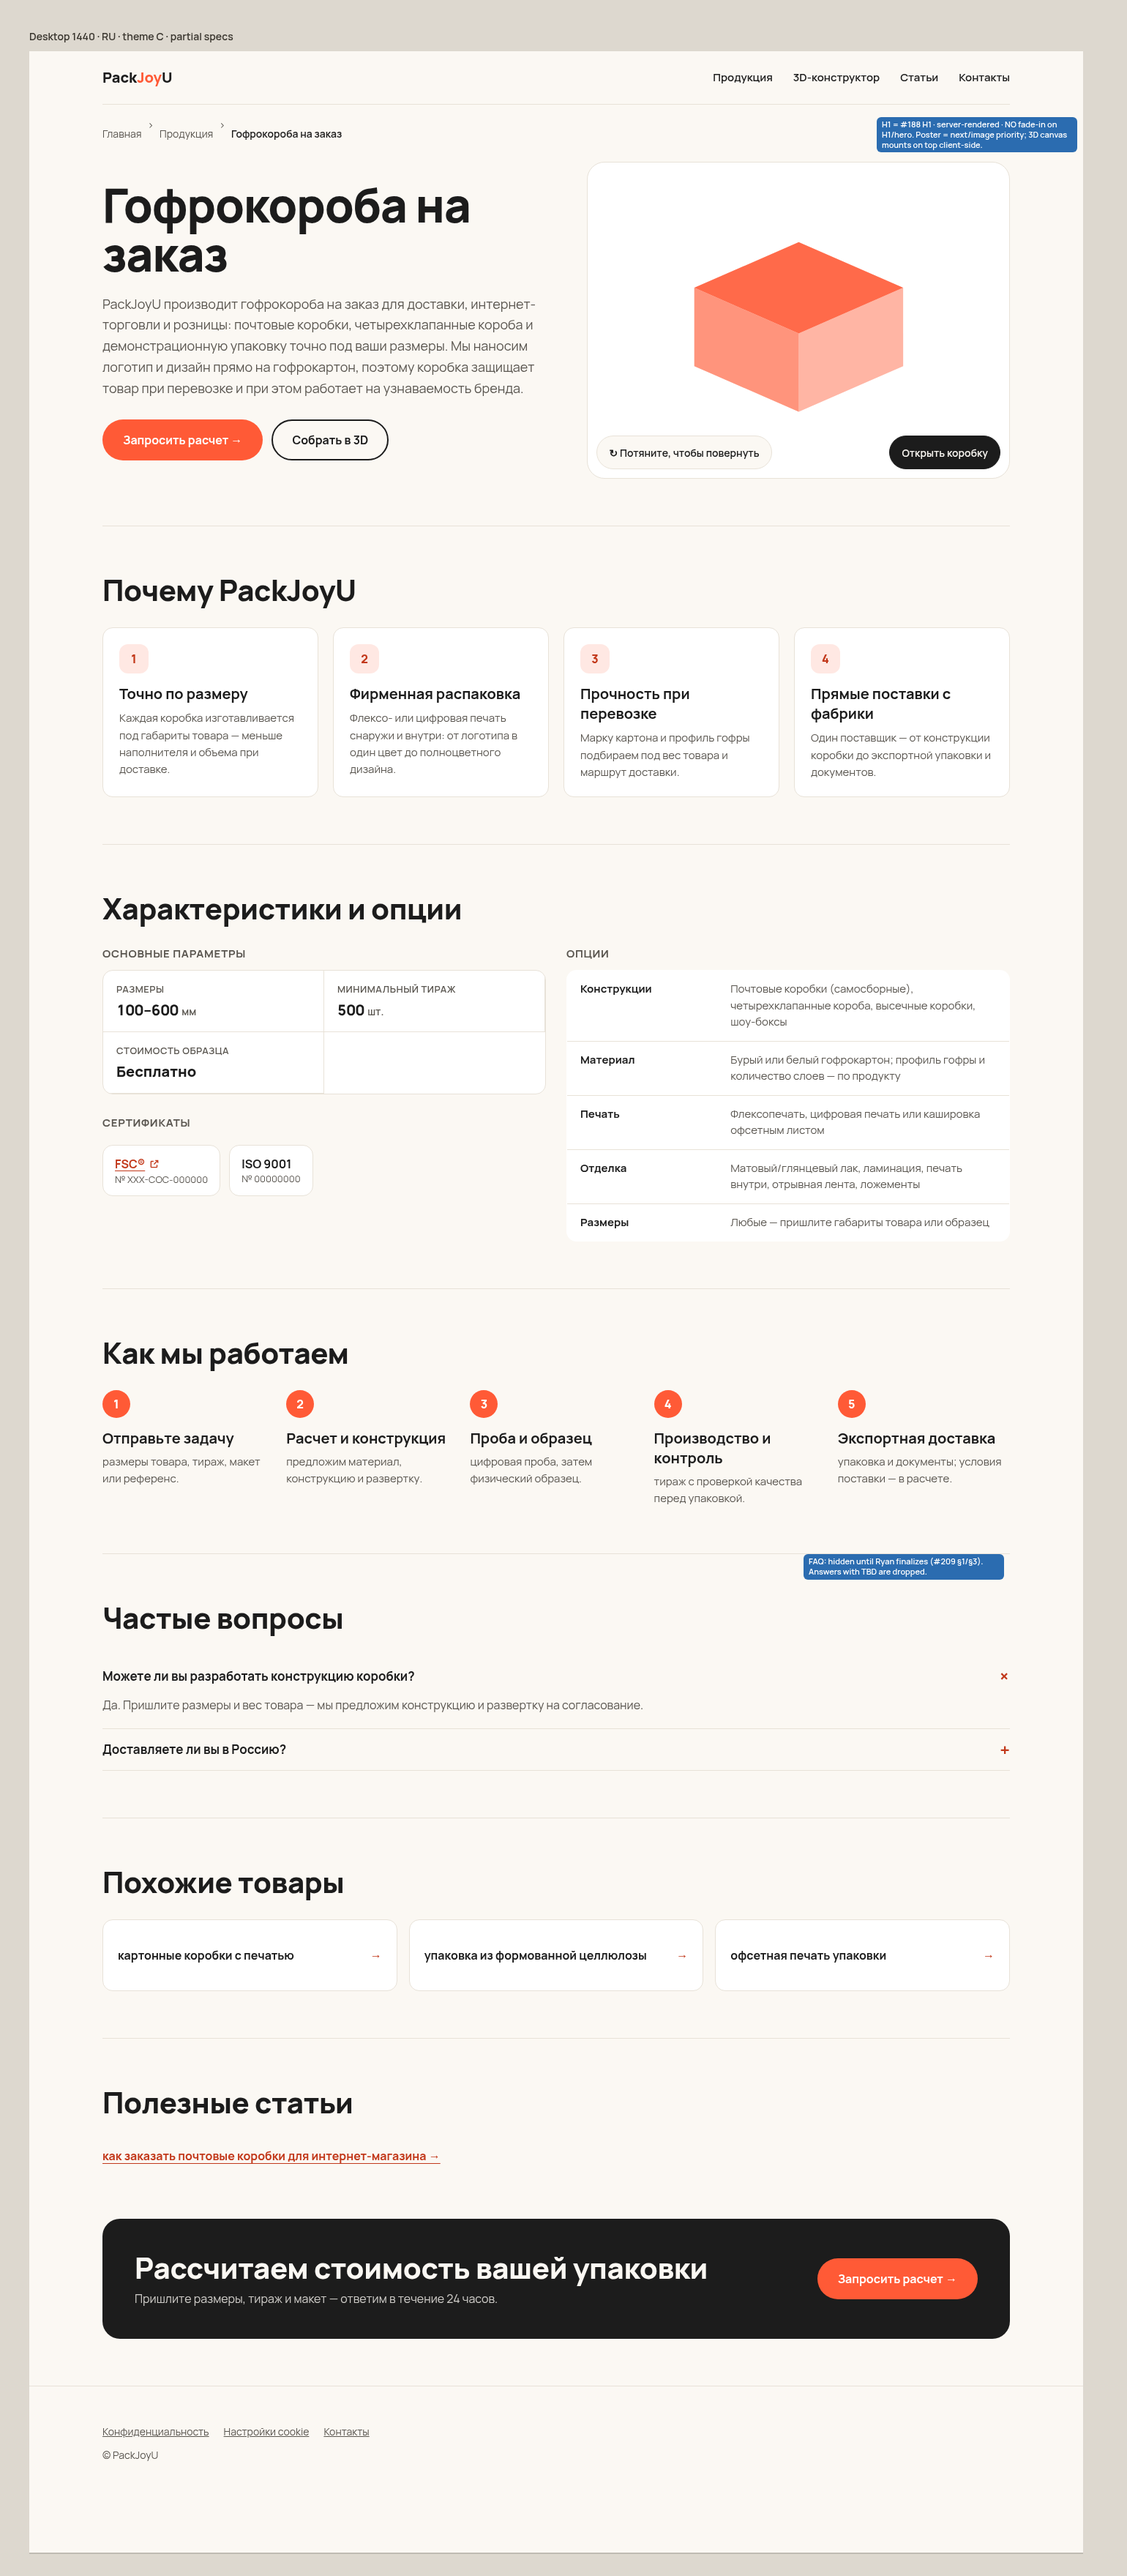
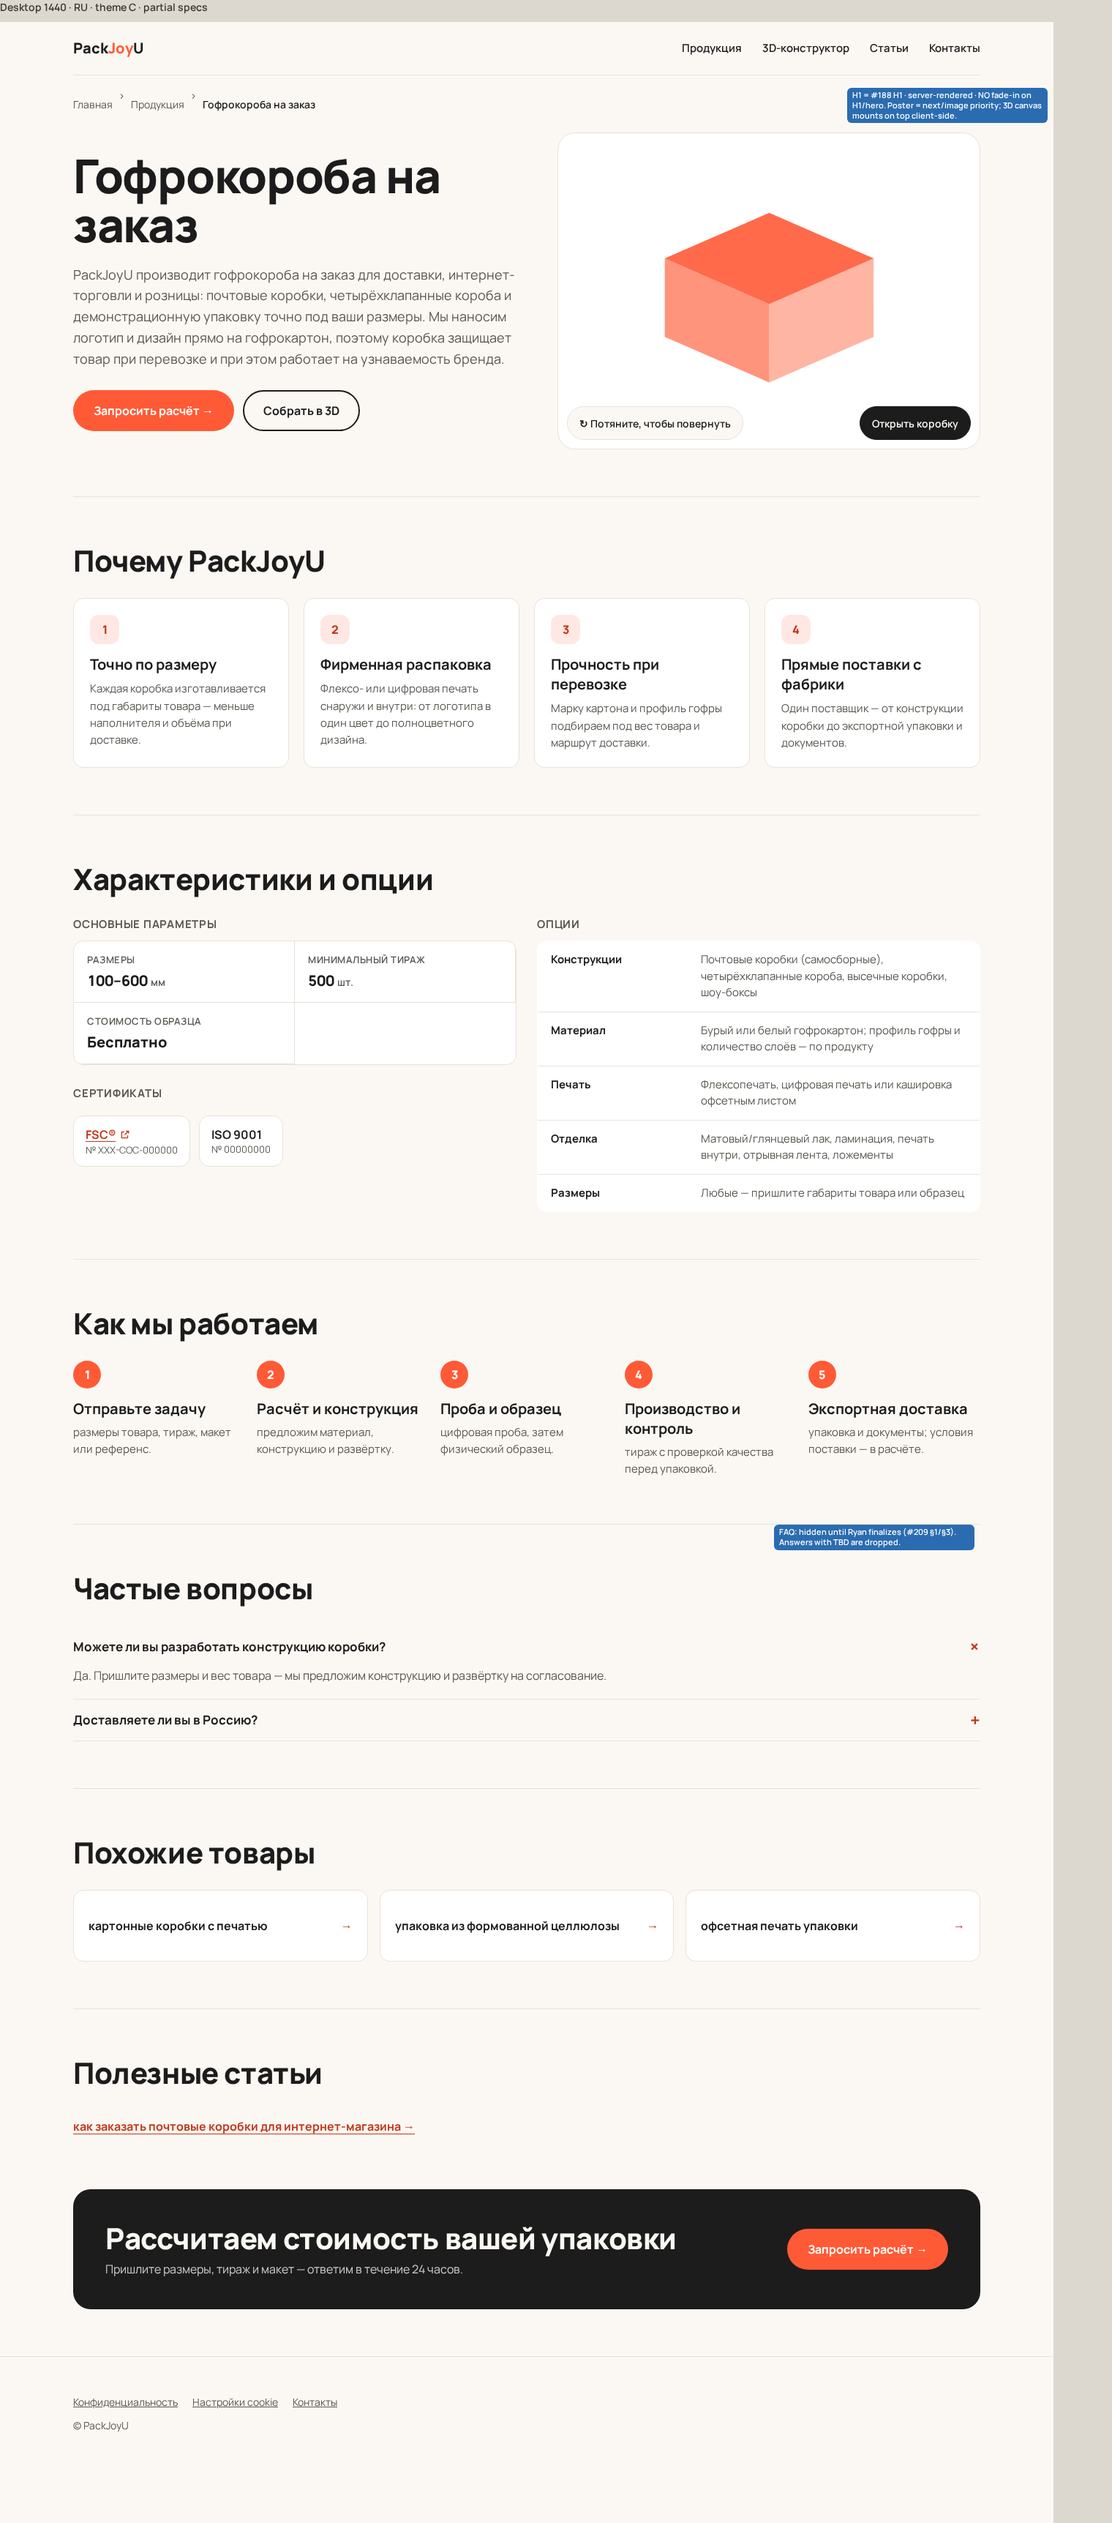
design(landing): RU ё spellings (расчёт, развёртку, четырёхклапанные, объёма, слоёв); RU CTA = 'Запросить расчёт'; re-export d-ru, m-ru, m360-ru (Refs #209)

diff --git a/design/landing/category-landing.html b/design/landing/category-landing.html
@@ -131,7 +131,7 @@ en:{nav:['Products','3D customizer','Articles','Contact'],home:'Home',products:'
  why:'Why PackJoyU',specs:'Specifications & options',key:'Key specs',options:'Options',certs:'Certificates',how:'How it works',faq:'Frequently asked questions',related:'Related products',reading:'Further reading',
  f:{size:'Size range',material:'Material',moq:'Minimum order',sample:'Sample fee',lead:'Lead time',terms:'Trade terms'},free:'Free',days:'days',pcs:'pcs',
  ctaT:'Get a quote for your boxes',ctaP:'Send size, quantity and artwork — we reply within 24 hours.',newtab:'(opens in a new tab)',certNo:'Cert. no.',foot:['Privacy','Cookie settings','Contact']},
-ru:{nav:['Продукция','3D-конструктор','Статьи','Контакты'],home:'Главная',products:'Продукция',quote:'Запросить расчет',custom:'Собрать в 3D',rotate:'Потяните, чтобы повернуть',open:'Открыть коробку',
+ru:{nav:['Продукция','3D-конструктор','Статьи','Контакты'],home:'Главная',products:'Продукция',quote:'Запросить расчёт',custom:'Собрать в 3D',rotate:'Потяните, чтобы повернуть',open:'Открыть коробку',
  why:'Почему PackJoyU',specs:'Характеристики и опции',key:'Основные параметры',options:'Опции',certs:'Сертификаты',how:'Как мы работаем',faq:'Частые вопросы',related:'Похожие товары',reading:'Полезные статьи',
  f:{size:'Размеры',material:'Материал',moq:'Минимальный тираж',sample:'Стоимость образца',lead:'Срок производства',terms:'Условия поставки'},free:'Бесплатно',days:'дн.',pcs:'шт.',
  ctaT:'Рассчитаем стоимость вашей упаковки',ctaP:'Пришлите размеры, тираж и макет — ответим в течение 24 часов.',newtab:'(откроется в новой вкладке)',certNo:'№',foot:['Конфиденциальность','Настройки cookie','Контакты']}};
@@ -143,11 +143,11 @@ corr:{en:{h1:'Custom Corrugated Boxes',lead:'PackJoyU manufactures custom corrug
  faq:[['Can you design the box structure for my product?','Yes. Send your product dimensions and weight, and our team will propose a structure and dieline for approval.'],['Do you ship to my country?','We export worldwide. Shipping terms (e.g. FOB/CIF) are confirmed per quote.']],
  rel:[['/en/products/custom-printed-boxes','custom printed boxes'],['/en/products/molded-pulp-packaging','molded pulp packaging'],['/en/products/offset-printing-services','offset printing services']],
  read:['/en/articles/custom-mailer-boxes-ecommerce-buyers-guide',"our buyer's guide to custom mailer boxes"]},
-ru:{h1:'Гофрокороба на заказ',lead:'PackJoyU производит гофрокороба на заказ для доставки, интернет-торговли и розницы: почтовые коробки, четырехклапанные короба и демонстрационную упаковку точно под ваши размеры. Мы наносим логотип и дизайн прямо на гофрокартон, поэтому коробка защищает товар при перевозке и при этом работает на узнаваемость бренда.',
- why:[['Точно по размеру','Каждая коробка изготавливается под габариты товара — меньше наполнителя и объема при доставке.'],['Фирменная распаковка','Флексо- или цифровая печать снаружи и внутри: от логотипа в один цвет до полноцветного дизайна.'],['Прочность при перевозке','Марку картона и профиль гофры подбираем под вес товара и маршрут доставки.'],['Прямые поставки с фабрики','Один поставщик — от конструкции коробки до экспортной упаковки и документов.']],
- opt:[['Конструкции','Почтовые коробки (самосборные), четырехклапанные короба, высечные коробки, шоу-боксы'],['Материал','Бурый или белый гофрокартон; профиль гофры и количество слоев — по продукту'],['Печать','Флексопечать, цифровая печать или кашировка офсетным листом'],['Отделка','Матовый/глянцевый лак, ламинация, печать внутри, отрывная лента, ложементы'],['Размеры','Любые — пришлите габариты товара или образец']],
- how:[['Отправьте задачу','размеры товара, тираж, макет или референс.'],['Расчет и конструкция','предложим материал, конструкцию и развертку.'],['Проба и образец','цифровая проба, затем физический образец.'],['Производство и контроль','тираж с проверкой качества перед упаковкой.'],['Экспортная доставка','упаковка и документы; условия поставки — в расчете.']],
- faq:[['Можете ли вы разработать конструкцию коробки?','Да. Пришлите размеры и вес товара — мы предложим конструкцию и развертку на согласование.'],['Доставляете ли вы в Россию?','Да, мы экспортируем продукцию, условия поставки уточняются в расчете.']],
+ru:{h1:'Гофрокороба на заказ',lead:'PackJoyU производит гофрокороба на заказ для доставки, интернет-торговли и розницы: почтовые коробки, четырёхклапанные короба и демонстрационную упаковку точно под ваши размеры. Мы наносим логотип и дизайн прямо на гофрокартон, поэтому коробка защищает товар при перевозке и при этом работает на узнаваемость бренда.',
+ why:[['Точно по размеру','Каждая коробка изготавливается под габариты товара — меньше наполнителя и объёма при доставке.'],['Фирменная распаковка','Флексо- или цифровая печать снаружи и внутри: от логотипа в один цвет до полноцветного дизайна.'],['Прочность при перевозке','Марку картона и профиль гофры подбираем под вес товара и маршрут доставки.'],['Прямые поставки с фабрики','Один поставщик — от конструкции коробки до экспортной упаковки и документов.']],
+ opt:[['Конструкции','Почтовые коробки (самосборные), четырёхклапанные короба, высечные коробки, шоу-боксы'],['Материал','Бурый или белый гофрокартон; профиль гофры и количество слоёв — по продукту'],['Печать','Флексопечать, цифровая печать или кашировка офсетным листом'],['Отделка','Матовый/глянцевый лак, ламинация, печать внутри, отрывная лента, ложементы'],['Размеры','Любые — пришлите габариты товара или образец']],
+ how:[['Отправьте задачу','размеры товара, тираж, макет или референс.'],['Расчёт и конструкция','предложим материал, конструкцию и развёртку.'],['Проба и образец','цифровая проба, затем физический образец.'],['Производство и контроль','тираж с проверкой качества перед упаковкой.'],['Экспортная доставка','упаковка и документы; условия поставки — в расчёте.']],
+ faq:[['Можете ли вы разработать конструкцию коробки?','Да. Пришлите размеры и вес товара — мы предложим конструкцию и развёртку на согласование.'],['Доставляете ли вы в Россию?','Да, мы экспортируем продукцию, условия поставки уточняются в расчёте.']],
  rel:[['/ru/products/tsvetnye-korobki','картонные коробки с печатью'],['/ru/products/izdeliya-iz-tsellyulozy','упаковка из формованной целлюлозы'],['/ru/products/ofsetnaya-pechat','офсетная печать упаковки']],
  read:['/ru/articles/pochtovye-korobki-s-logotipom-dlya-internet-magazina','как заказать почтовые коробки для интернет-магазина']}},
 wine:{en:{h1:'Custom Wine Boxes',lead:'PackJoyU manufactures luxury wine and spirits boxes for wineries, distilleries, importers and gift brands. We make single-bottle and multi-bottle boxes with magnetic closures, fitted inserts and premium finishes such as foil stamping and embossed logos, so every bottle arrives protected and gift-ready.',
